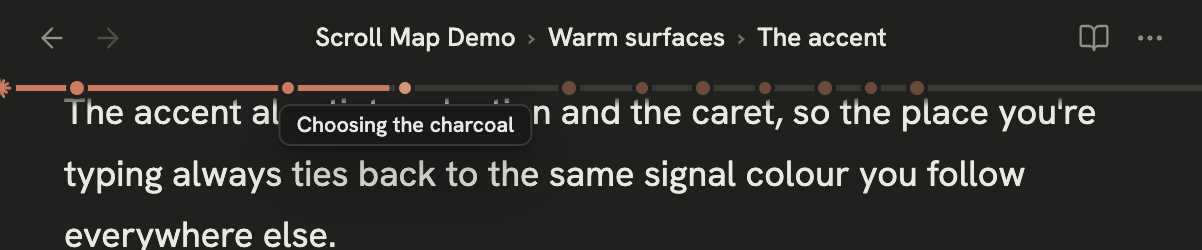
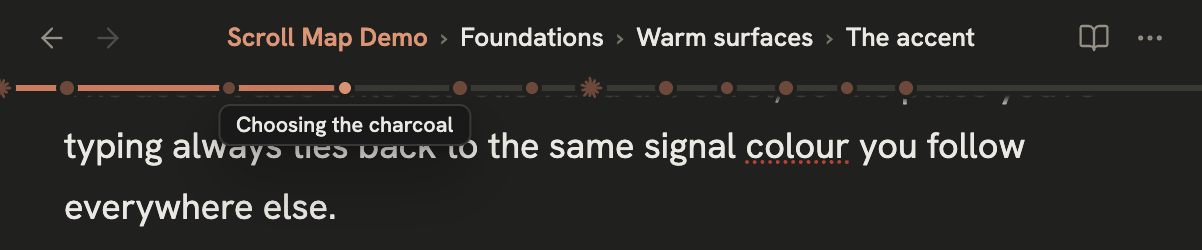
Scroll map: fix washed-out markers in light mode
On the cream light-theme surface the unread dots (0.45 coral over paper)
faded toward beige and the unread track (the general border token) sat
only ~15 lightness off the background, so the unread half of the strip
looked faint and broken. Dark mode was unaffected — 0.45 coral on charcoal
already reads as a clear dim dot.

Split the two values out per theme: --cc-dot-fade (light 0.6 vs dark 0.45)
keeps unread dots clearly coral on paper, and --cc-track-color gives light
mode a dedicated, darker unread track instead of the faint border token.
Regenerate the demo shots with a second mid-document H1 so both starburst
markers (filled + faded) show, and with distinct part titles so the
breadcrumb reads cleanly.

Changed region(s): [[0.0, 0.308, 0.9235, 1.0], [0.1847, 0.112, 0.8311, 0.196], [0.277, 0.392, 0.3078, 0.42]]

diff --git a/theme.css b/theme.css
@@ -300,6 +300,13 @@ body {
     --cc-selection:  color-mix(in srgb, var(--cc-accent) 18%, transparent);
     --cc-active-line-bg: color-mix(in srgb, var(--cc-accent) 5%, transparent);
 
+    /* Scroll-map markers. Unread dots fade by opacity over the note bg; on
+       cream that washes them toward beige, so light mode holds more of the
+       coral than dark does. The unread track also needs a darker line than
+       the general border to stay visible on paper. */
+    --cc-dot-fade:    0.6;
+    --cc-track-color: #d9d3c4;
+
     color-scheme: light;
 
     --accent-h: 16;
@@ -401,6 +408,11 @@ body {
     --cc-border-soft:#322f2a;
     --cc-selection:  color-mix(in srgb, var(--cc-accent) 26%, transparent);
     --cc-active-line-bg: color-mix(in srgb, var(--cc-accent) 8%, transparent);
+
+    /* Scroll-map markers: on the dark charcoal a 0.45 coral already reads as
+       a clear dim dot, and the general border works as the unread track. */
+    --cc-dot-fade:    0.45;
+    --cc-track-color: var(--cc-border);
 
     color-scheme: dark;
 
@@ -1395,7 +1407,7 @@ body.cc-scroll-progress .workspace-leaf-content[data-type="markdown"] .view-cont
     top: 0; left: 0;
     width: 100%; height: 15px;
     background:
-        linear-gradient(var(--cc-border), var(--cc-border))
+        linear-gradient(var(--cc-track-color, var(--cc-border)), var(--cc-track-color, var(--cc-border)))
             0 4px / 100% 3px no-repeat,
         linear-gradient(to bottom, var(--cc-bg) 60%, transparent);
     z-index: 8;
@@ -1426,7 +1438,7 @@ body.cc-scroll-progress .workspace-leaf-content[data-type="markdown"]
     .view-content.cc-map-hover::before {
     height: 27px;
     background:
-        linear-gradient(var(--cc-border), var(--cc-border))
+        linear-gradient(var(--cc-track-color, var(--cc-border)), var(--cc-track-color, var(--cc-border)))
             0 3px / 100% 5px no-repeat,
         linear-gradient(to bottom, var(--cc-bg) 60%, transparent);
 }
@@ -1544,7 +1556,7 @@ body .cc-scroll-map .cc-scroll-dot::before {
     inset: 0;
     border-radius: 50%;
     background: var(--cc-dot-color);
-    opacity: 0.45;
+    opacity: var(--cc-dot-fade, 0.45);
     animation: cc-scroll-dot-pass linear both;
     animation-timeline: --cc-note-scroll;
     animation-range: